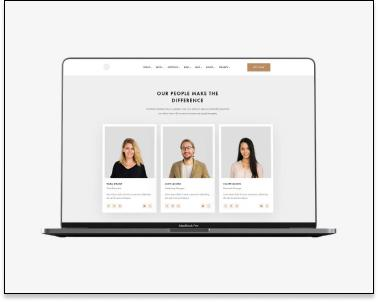
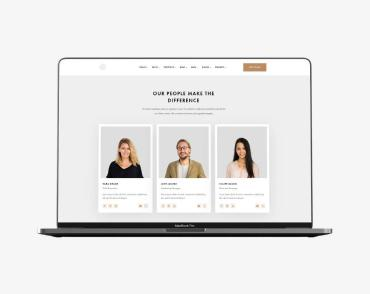
fix btn and fix photos

Changed region(s): [[0.0892, 0.1837, 0.9216, 0.8265], [0.0, 0.0, 1.0, 1.0], [0.2676, 0.2755, 0.7135, 0.4286]]

diff --git a/portfolio.html b/portfolio.html
@@ -41,11 +41,11 @@
     <h1 class="visually-hidden">Наши работы</h1>
 <!-- фильтр -->
     <ul class="portfolio-btn-list">
-        <li class="btn-item"><button class="btn-nav" type="button">Все</button></li>
-        <li class="btn-item"><button class="btn-nav" type="button">Веб-сайты</button></li>
-        <li class="btn-item"><button class="btn-nav" type="button">Приложения</button></li>
-        <li class="btn-item"><button class="btn-nav" type="button">Дизайн</button></li>
-        <li class="btn-item"><button class="btn-nav" type="button">Маркетинг</button></li>
+        <li class="btn-item"><button class="btn-nav btn" type="button">Все</button></li>
+        <li class="btn-item"><button class="btn-nav btn" type="button">Веб-сайты</button></li>
+        <li class="btn-item"><button class="btn-nav btn" type="button">Приложения</button></li>
+        <li class="btn-item"><button class="btn-nav btn" type="button">Дизайн</button></li>
+        <li class="btn-item"><button class="btn-nav btn" type="button">Маркетинг</button></li>
     </ul>
 <!-- Примеры работ -->
 
@@ -53,9 +53,9 @@
     <li class="examples-sites-list">
         <img class="item-img" src="./images/portfolio/portfolio1.jpg" 
         alt="Технокряк" width="370" height="294">
-        <div class="portfolio-desc"> 
-        <h3 class="name-img">Технокряк</h3>
-        <p class="desription-img">Веб-сайт</p>
+        <div class="portfolio-desc">
+            <h3 class="name-img">Технокряк</h3>
+            <p class="desription-img">Веб-сайт</p>
         </div>
     </li>
     <li class="examples-sites-list">
@@ -70,7 +70,7 @@
         <img class="item-img" src="./images/portfolio/portfolio3.jpg" 
         alt="Ресторан Seafood" width="370" height="294">
         <div class="portfolio-desc"> 
-        <h3 class="name-img">Ресторан Seafood</h3>
+        <h3 class="name-img">Ресторан <span lang="en">Seafood</span></h3>
         <p class="desription-img">Приложение</p>
         </div>
     </li>
@@ -78,7 +78,7 @@
         <img class="item-img" src="./images/portfolio/portfolio4.jpg" 
         alt="Проект Prime" width="370" height="294">
         <div class="portfolio-desc"> 
-        <h3 class="name-img">Проект Prime</h3>
+        <h3 class="name-img">Проект <span lang="en">Prime</span></h3>
         <p class="desription-img">Маркетинг</p>
         </div>
     </li>
@@ -86,7 +86,7 @@
         <img class="item-img" src="./images/portfolio/portfolio5.jpg" 
         alt="Проект Boxes" width="370" height="294">
         <div class="portfolio-desc"> 
-        <h3 class="name-img">Проект Boxes</h3>
+        <h3 class="name-img">Проект <span lang="en">Boxes</span></h3>
         <p class="desription-img">Приложение</p>
         </div>
     </li>
@@ -94,7 +94,7 @@
         <img class="item-img" src="./images/portfolio/portfolio6.jpg" 
         alt="Inspiration has no Borders" width="370" height="294">
         <div class="portfolio-desc">
-        <h3 class="name-img">Inspiration has no Borders</h3>
+        <h3 class="name-img" lang="en">Inspiration has no Borders</h3>
         <p class="desription-img">Веб-сайт</p>
         </div>
     </li>
@@ -102,7 +102,7 @@
         <img class="item-img" src="./images/portfolio/portfolio7.jpg" 
         alt="Издание Limited Edition" width="370" height="294">
         <div class="portfolio-desc"> 
-        <h3 class="name-img">Издание Limited Edition</h3>
+        <h3 class="name-img">Издание <span lang="en">Limited Edition</span></h3>
         <p class="desription-img">Дизайн</p>
         </div>
     </li>
@@ -118,7 +118,7 @@
         <img class="item-img" src="./images/portfolio/portfolio9.jpg" 
         alt="Growing Business" width="370" height="294">
         <div class="portfolio-desc"> 
-        <h3 class="name-img">Growing Business</h3>
+        <h3 class="name-img" lang="en">Growing Business</h3>
         <p class="desription-img">Приложение</p>
         </div>
     </li>

diff --git a/css/styles.css b/css/styles.css
@@ -236,6 +236,7 @@ body {
   margin-right: 30px;
 }
 .btn {
+  background-color: var(--accent-color);
   border: 1px solid transparent;
   border-radius: 4px;
 }
